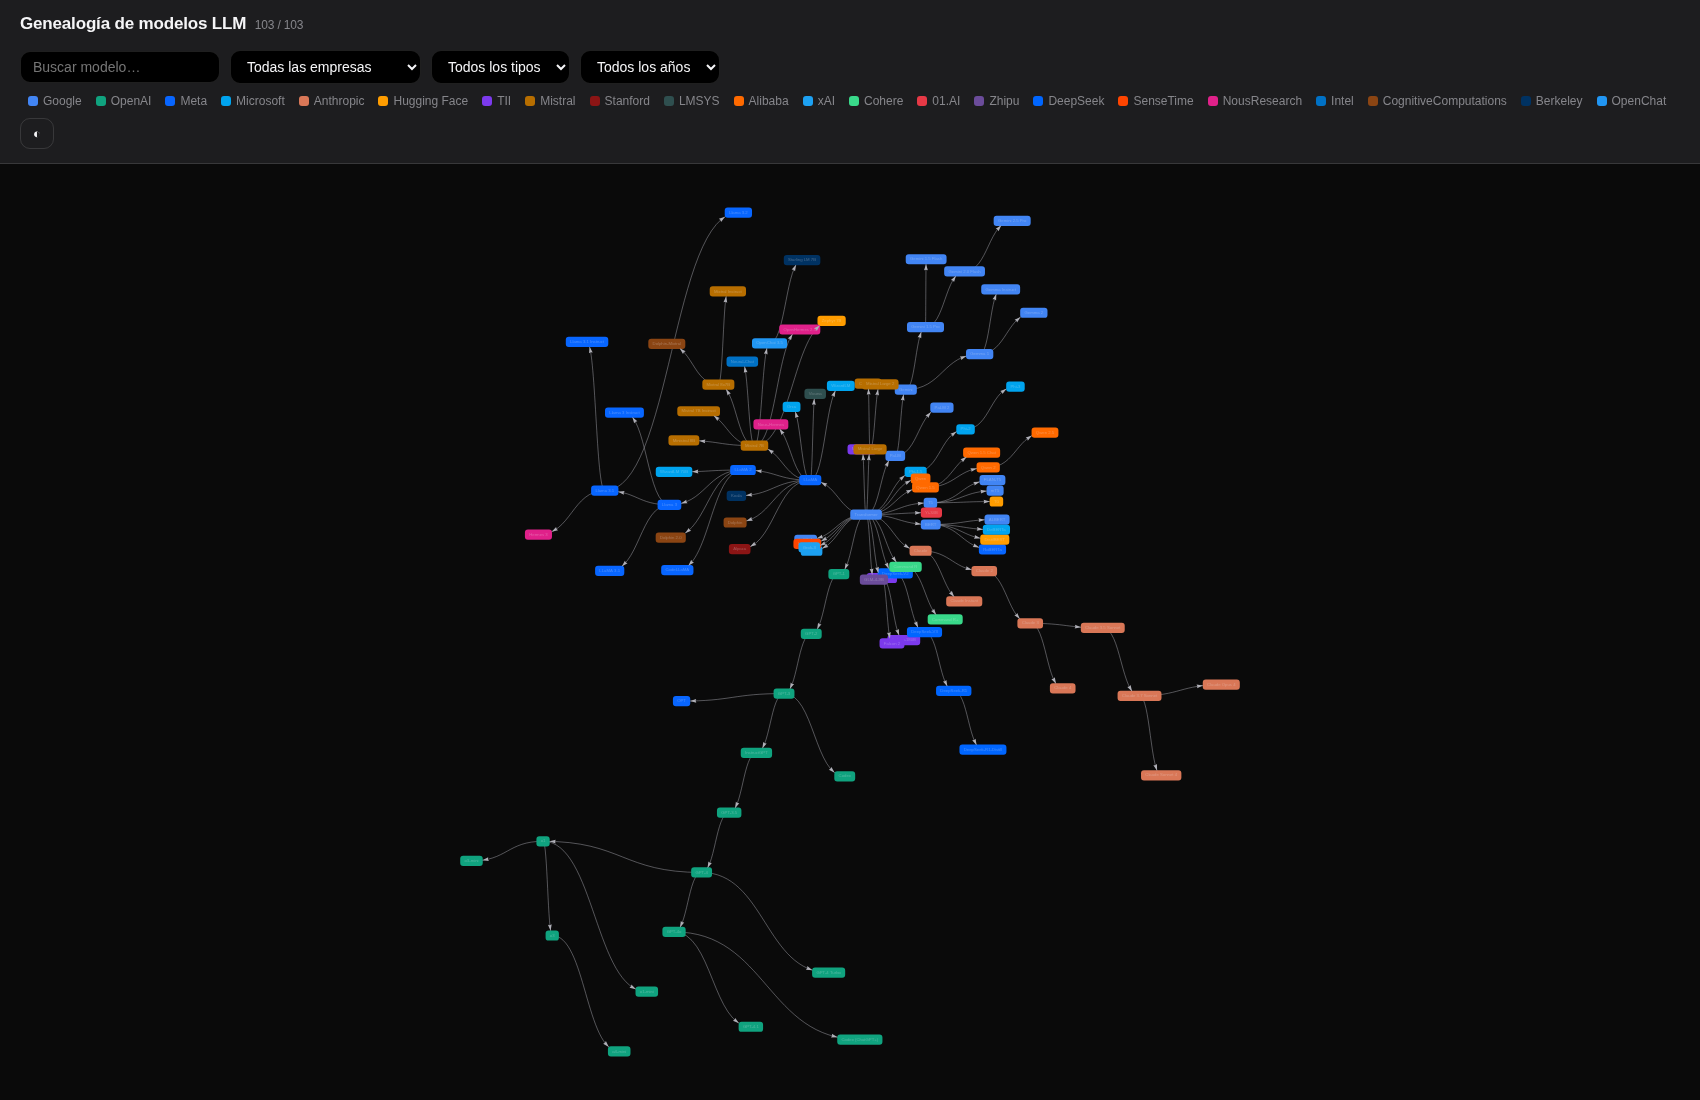
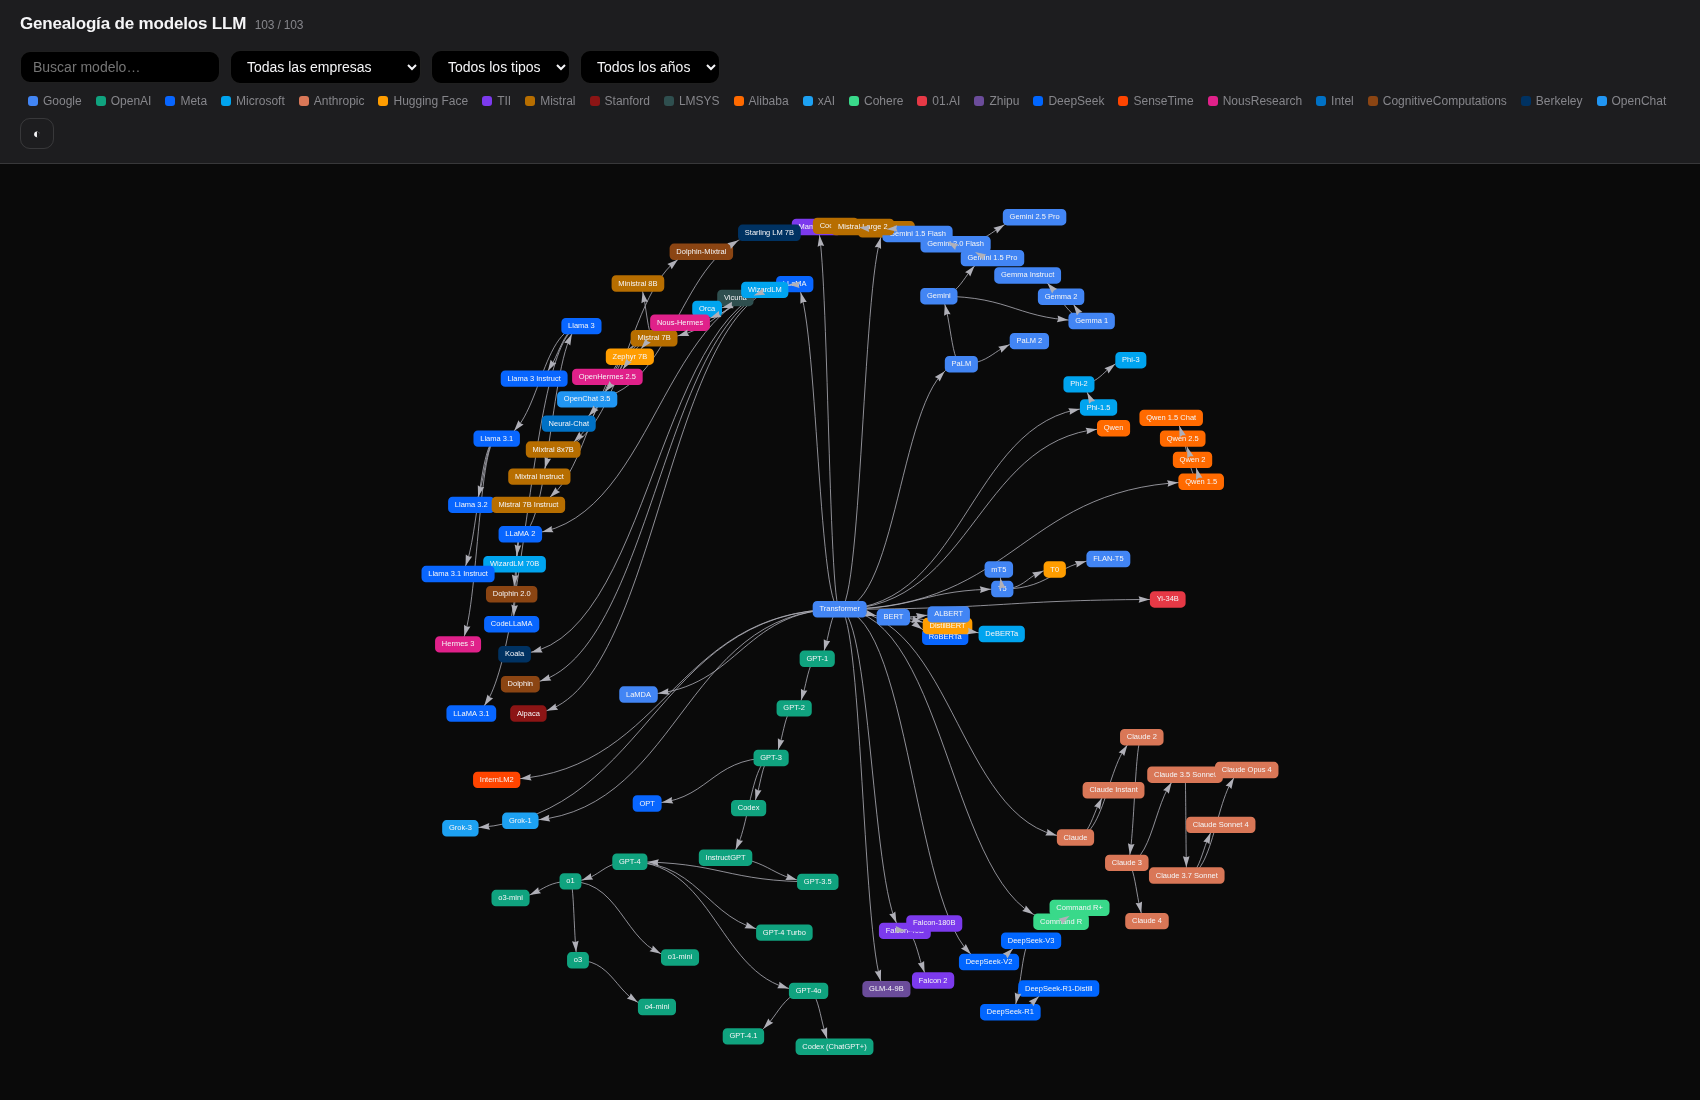
feat(ui): dimension temporal en el radio (ano = distancia al centro)
Radio = tiempo: Transformer (2017) al centro, modelos mas recientes
en anillos mas lejanos por fecha. El angulo mantiene los sectores por
familia. Eje cronologico natural ademas del linaje.

diff --git a/app.js b/app.js
@@ -127,7 +127,10 @@
       start += frac;
     });
 
-    var pos = {}, ringSpacing = 200;
+    var pos = {};
+    // Eje temporal en el radio: año → distancia al centro (2017 = centro, más nuevo = más afuera)
+    var minYear = 2017, yearSpacing = 95;
+    function yearOf(id) { return parseInt((byId[id].date || "2017").split("-")[0], 10) || 2017; }
     roots.forEach(function (r) { pos[r] = { x: 0, y: 0 }; });
 
     // preorden por rama para mantener cada linaje contiguo (menos cruces)
@@ -142,20 +145,20 @@
     var posInSeq = {};
     seq.forEach(function (id, i) { posInSeq[id] = i; });
 
-    // colocar nodos por (familia, profundidad), distribuidos en el sector
-    var depthNodes = {};
+    // colocar nodos por (familia, año): radio = tiempo, ángulo = sector
+    var bucket = {};
     models.forEach(function (m) {
       var b = nodesBranch[m.id];
       if (b === "__ROOT__") return;
-      var k = b + "|" + depth[m.id];
-      (depthNodes[k] = depthNodes[k] || []).push(m.id);
+      var k = b + "|" + yearOf(m.id);
+      (bucket[k] = bucket[k] || []).push(m.id);
     });
-    Object.keys(depthNodes).forEach(function (k) {
-      var parts = k.split("|"), b = parts[0], d = +parts[1];
-      var ids = depthNodes[k].sort(function (a, c) { return posInSeq[a] - posInSeq[c]; });
+    Object.keys(bucket).forEach(function (k) {
+      var parts = k.split("|"), b = parts[0], yr = +parts[1];
+      var ids = bucket[k].sort(function (a, c) { return posInSeq[a] - posInSeq[c]; });
       var n = ids.length, span = spans[b];
       ids.forEach(function (id, i) {
-        var radius = d * ringSpacing;
+        var radius = (yr - minYear) * yearSpacing;
         var ang = span.start + ((i + 0.5) / n) * (span.end - span.start);
         pos[id] = { x: Math.cos(ang) * radius, y: Math.sin(ang) * radius };
       });
